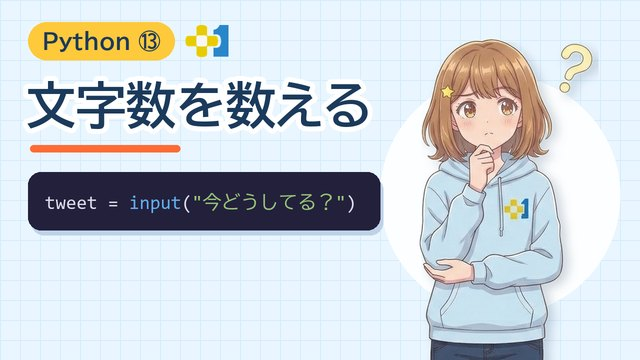
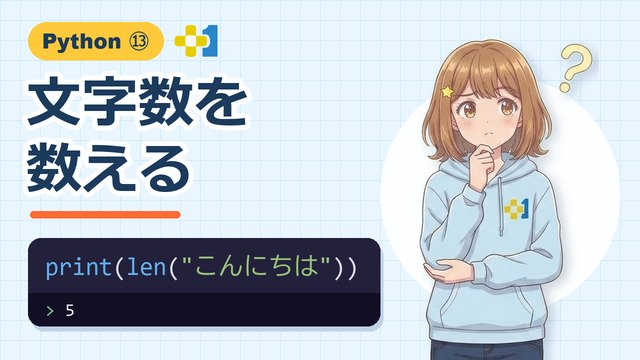
Python ナビ：ステップ13「文字数を数える」の新しい動画を登録・仕上げ5問を新しく
- ステップ13に動画⑬（QNcPSPvWM-4）・見出し3つ（len で数える・記号も1文字・つぶやきの文字数）・チャレンジ3つを入れた
- 仕上げ5問 31-13 を新しく作った（文字数・小さい字と記号・のばす棒・len で表示・つぶやきの文字数）
- サムネイル step-13.jpg を新しい動画のものにした

diff --git a/src/data/navi/finishSteps.ts b/src/data/navi/finishSteps.ts
@@ -94,6 +94,14 @@ export const finishStepLessons: Lesson[] = [
     "difficulty": "かんたん"
   },
   {
+    "id": "31-13",
+    "unitNumber": 31,
+    "subNumber": 13,
+    "title": "ステップ13の仕上げ",
+    "description": "len( ) で、文字の数を数えよう",
+    "difficulty": "かんたん"
+  },
+  {
     "id": "31-14",
     "unitNumber": 31,
     "subNumber": 14,
@@ -2346,6 +2354,185 @@ export const finishStepMissions: Record<string, Mission[]> = {
             "%"
           ],
           "message": "ポイントは スラッシュ2つ（//）で計算しよう！"
+        }
+      ]
+    }
+  ],
+  "31-13": [
+    {
+      "id": 1,
+      "type": "quiz",
+      "title": "文字数を数える",
+      "description": "このコードを実行すると、何が出る？",
+      "codeToRead": "print(len(\"ありがとう\"))",
+      "choices": [
+        "4",
+        "5",
+        "6"
+      ],
+      "correctAnswer": 1,
+      "expectedOutput": "5",
+      "hint": "1文字ずつ数えてみよう。",
+      "explanation": "あ・り・が・と・う で 5文字だよ。",
+      "availableBlocks": []
+    },
+    {
+      "id": 2,
+      "type": "quiz",
+      "title": "小さい字と記号",
+      "description": "このコードを実行すると、何が出る？",
+      "codeToRead": "print(len(\"きっぷ！\"))",
+      "choices": [
+        "4",
+        "3",
+        "2"
+      ],
+      "correctAnswer": 0,
+      "expectedOutput": "4",
+      "hint": "小さい「っ」や「！」も数えるよ。",
+      "explanation": "き・っ・ぷ・！ で 4文字。小さい字も記号も1文字だよ。",
+      "availableBlocks": []
+    },
+    {
+      "id": 3,
+      "type": "quiz",
+      "title": "のばす棒",
+      "description": "このコードを実行すると、何が出る？",
+      "codeToRead": "tweet = \"ケーキたべた\"\nprint(\"文字数は\", len(tweet))",
+      "choices": [
+        "文字数は 5",
+        "文字数は ケーキたべた",
+        "文字数は 6"
+      ],
+      "correctAnswer": 2,
+      "expectedOutput": "文字数は 6",
+      "hint": "のばす棒「ー」も1文字だよ。",
+      "explanation": "ケ・ー・キ・た・べ・た で 6文字。カンマでならべると「文字数は 6」。",
+      "availableBlocks": []
+    },
+    {
+      "id": 4,
+      "title": "文字数を表示",
+      "description": "len( ) を使って、hello の文字数を表示しよう！",
+      "expectedOutput": "4",
+      "correctCode": "print(len(hello))",
+      "availableBlocks": [
+        {
+          "id": "b0",
+          "text": "print",
+          "type": "function",
+          "color": "bg-yellow-200"
+        },
+        {
+          "id": "b1",
+          "text": "(",
+          "type": "bracket",
+          "color": "bg-gray-200"
+        },
+        {
+          "id": "b2",
+          "text": "len",
+          "type": "function",
+          "color": "bg-yellow-200"
+        },
+        {
+          "id": "b3",
+          "text": "hello",
+          "type": "variable",
+          "color": "bg-sky-200"
+        },
+        {
+          "id": "b4",
+          "text": ")",
+          "type": "bracket",
+          "color": "bg-gray-200"
+        },
+        {
+          "id": "b5",
+          "text": "\"hello\"",
+          "type": "string",
+          "color": "bg-green-200"
+        }
+      ],
+      "prefixCode": "hello = \"おはよう\"",
+      "rules": [
+        {
+          "forbids": [
+            "\"hello\""
+          ],
+          "message": "\" \" でかこむと、箱の中身ではなく hello という文字の数になるよ！"
+        },
+        {
+          "requires": [
+            "len("
+          ],
+          "message": "文字の数は len( ) で数えるよ！"
+        }
+      ]
+    },
+    {
+      "id": 5,
+      "title": "つぶやきの文字数",
+      "description": "tweet には「サッカーしてる」が入っているよ。「文字数は 7」と表示しよう！",
+      "expectedOutput": "文字数は 7",
+      "correctCode": "print(\"文字数は\", len(tweet))",
+      "availableBlocks": [
+        {
+          "id": "b0",
+          "text": "print",
+          "type": "function",
+          "color": "bg-yellow-200"
+        },
+        {
+          "id": "b1",
+          "text": "(",
+          "type": "bracket",
+          "color": "bg-gray-200"
+        },
+        {
+          "id": "b2",
+          "text": "\"文字数は\"",
+          "type": "string",
+          "color": "bg-green-200"
+        },
+        {
+          "id": "b3",
+          "text": ",",
+          "type": "separator",
+          "color": "bg-purple-200"
+        },
+        {
+          "id": "b4",
+          "text": "len",
+          "type": "function",
+          "color": "bg-yellow-200"
+        },
+        {
+          "id": "b5",
+          "text": "tweet",
+          "type": "variable",
+          "color": "bg-sky-200"
+        },
+        {
+          "id": "b6",
+          "text": ")",
+          "type": "bracket",
+          "color": "bg-gray-200"
+        },
+        {
+          "id": "b7",
+          "text": "\"tweet\"",
+          "type": "string",
+          "color": "bg-green-200"
+        }
+      ],
+      "prefixCode": "tweet = \"サッカーしてる\"",
+      "rules": [
+        {
+          "forbids": [
+            "\"tweet\""
+          ],
+          "message": "\" \" でかこむと、tweet という文字の数になるよ！"
         }
       ]
     }
@@ -6177,6 +6364,22 @@ export const finishStepTutorials: LessonTutorial[] = [
         "characterMessage": "わからなくなったら、ヒントを見てね。",
         "codeExample": {
           "good": "print(\"-\" * 10)  # かざりの線"
+        }
+      }
+    ]
+  },
+  {
+    "lessonId": "31-13",
+    "characterName": "いちか",
+    "characterEmoji": "🙂",
+    "characterImage": "/navi/bob_smile.webp",
+    "slides": [
+      {
+        "title": "5問で仕上げよう",
+        "content": "さっきの動画で習ったことを、5問でたしかめます。結果を予想する問題・まちがいを直す問題・ブロックをならべる問題があります。",
+        "characterMessage": "わからなくなったら、ヒントを見てね。",
+        "codeExample": {
+          "good": "print(len(\"ねこ\"))  # 2"
         }
       }
     ]

diff --git a/scripts/build-navi-finish.py b/scripts/build-navi-finish.py
@@ -645,6 +645,21 @@ FRESH = {
           'print("ポイントは", goukei // 100)', "ポイントは 8", extra=["goukei % 100"], prefix="goukei = 860",
           rules=[("forbids", ["%"], "ポイントは スラッシュ2つ（//）で計算しよう！")]),
     ]),
+    13: dict(desc="len( ) で、文字の数を数えよう", example='print(len("ねこ"))  # 2', qs=[
+        Q("文字数を数える", 'print(len("ありがとう"))', "5", ["4", "6"],
+          "1文字ずつ数えてみよう。", "あ・り・が・と・う で 5文字だよ。"),
+        Q("小さい字と記号", 'print(len("きっぷ！"))', "4", ["3", "2"],
+          "小さい「っ」や「！」も数えるよ。", "き・っ・ぷ・！ で 4文字。小さい字も記号も1文字だよ。"),
+        Q("のばす棒", 'tweet = "ケーキたべた"\nprint("文字数は", len(tweet))', "文字数は 6", ["文字数は 5", "文字数は ケーキたべた"],
+          "のばす棒「ー」も1文字だよ。", "ケ・ー・キ・た・べ・た で 6文字。カンマでならべると「文字数は 6」。"),
+        B("文字数を表示", "len( ) を使って、hello の文字数を表示しよう！", "print(len(hello))", "4", extra=['"hello"'],
+          prefix='hello = "おはよう"',
+          rules=[("forbids", ['"hello"'], "\" \" でかこむと、箱の中身ではなく hello という文字の数になるよ！"),
+                 ("req", ["len("], "文字の数は len( ) で数えるよ！")]),
+        B("つぶやきの文字数", "tweet には「サッカーしてる」が入っているよ。「文字数は 7」と表示しよう！",
+          'print("文字数は", len(tweet))', "文字数は 7", extra=['"tweet"'], prefix='tweet = "サッカーしてる"',
+          rules=[("forbids", ['"tweet"'], "\" \" でかこむと、tweet という文字の数になるよ！")]),
+    ]),
 }
 
 NEW_STEP = {2: 5, 3: 8, 4: 9, 5: 10, 6: 11, 7: 14, 8: 16, 9: 18, 10: 23, 11: 25, 12: 28, 13: 33, 14: 35, 15: 37,
